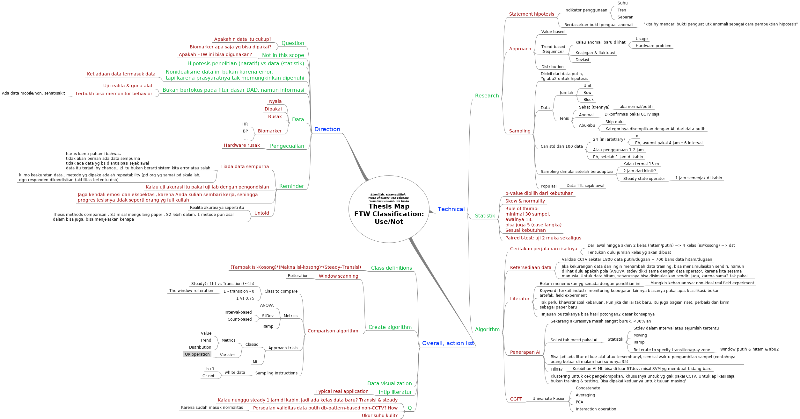
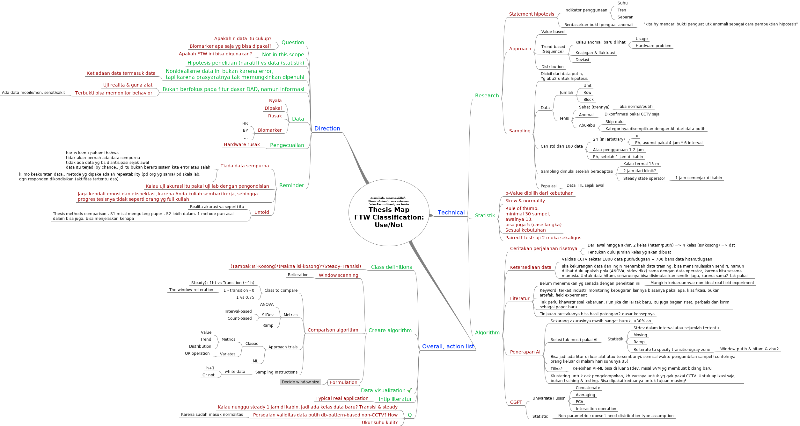
Set host

diff --git a/thesis-map-ftw-cls.mm b/thesis-map-ftw-cls.mm
@@ -235,6 +235,9 @@
 <node COLOR="#111111" CREATED="1706173443008" ID="ID_275399547" MODIFIED="1706173444160" TEXT="PCA"/>
 <node COLOR="#111111" CREATED="1706173469982" ID="ID_197880909" MODIFIED="1706173485974" TEXT="Interaction operation"/>
 </node>
+<node COLOR="#111111" CREATED="1706341627739" ID="ID_933247162" MODIFIED="1706341632566" TEXT="Statistic">
+<node COLOR="#111111" CREATED="1706341632573" ID="ID_390293739" MODIFIED="1706341649349" TEXT="Non-parametric : doesn&apos;t need distribution type assumption"/>
+</node>
 </node>
 </node>
 </node>
@@ -444,10 +447,15 @@
 </node>
 </node>
 </node>
+<node COLOR="#990000" CREATED="1706342708532" ID="ID_108897682" MODIFIED="1706342716396" STYLE="bubble" TEXT="Formulation">
+<font NAME="SansSerif" SIZE="14"/>
+<node COLOR="#111111" CREATED="1706342717917" ID="ID_620920171" MODIFIED="1706342749277" STYLE="fork" TEXT="Decide window size"/>
 </node>
-<node COLOR="#00b439" CREATED="1705915633601" ID="ID_1291085539" MODIFIED="1705978743280" TEXT="Data visualization">
+</node>
+<node COLOR="#00b439" CREATED="1705915633601" ID="ID_1291085539" MODIFIED="1706335636769" STYLE="fork" TEXT="Data visualization">
 <edge STYLE="bezier" WIDTH="thin"/>
-<font NAME="SansSerif" SIZE="16"/>
+<font NAME="SansSerif" SIZE="16" STRIKETHROUGH="true"/>
+<icon BUILTIN="button_ok"/>
 </node>
 <node COLOR="#00b439" CREATED="1705978007711" ID="ID_1104702383" MODIFIED="1705978018729" TEXT="Intip literatur">
 <edge STYLE="bezier" WIDTH="thin"/>
